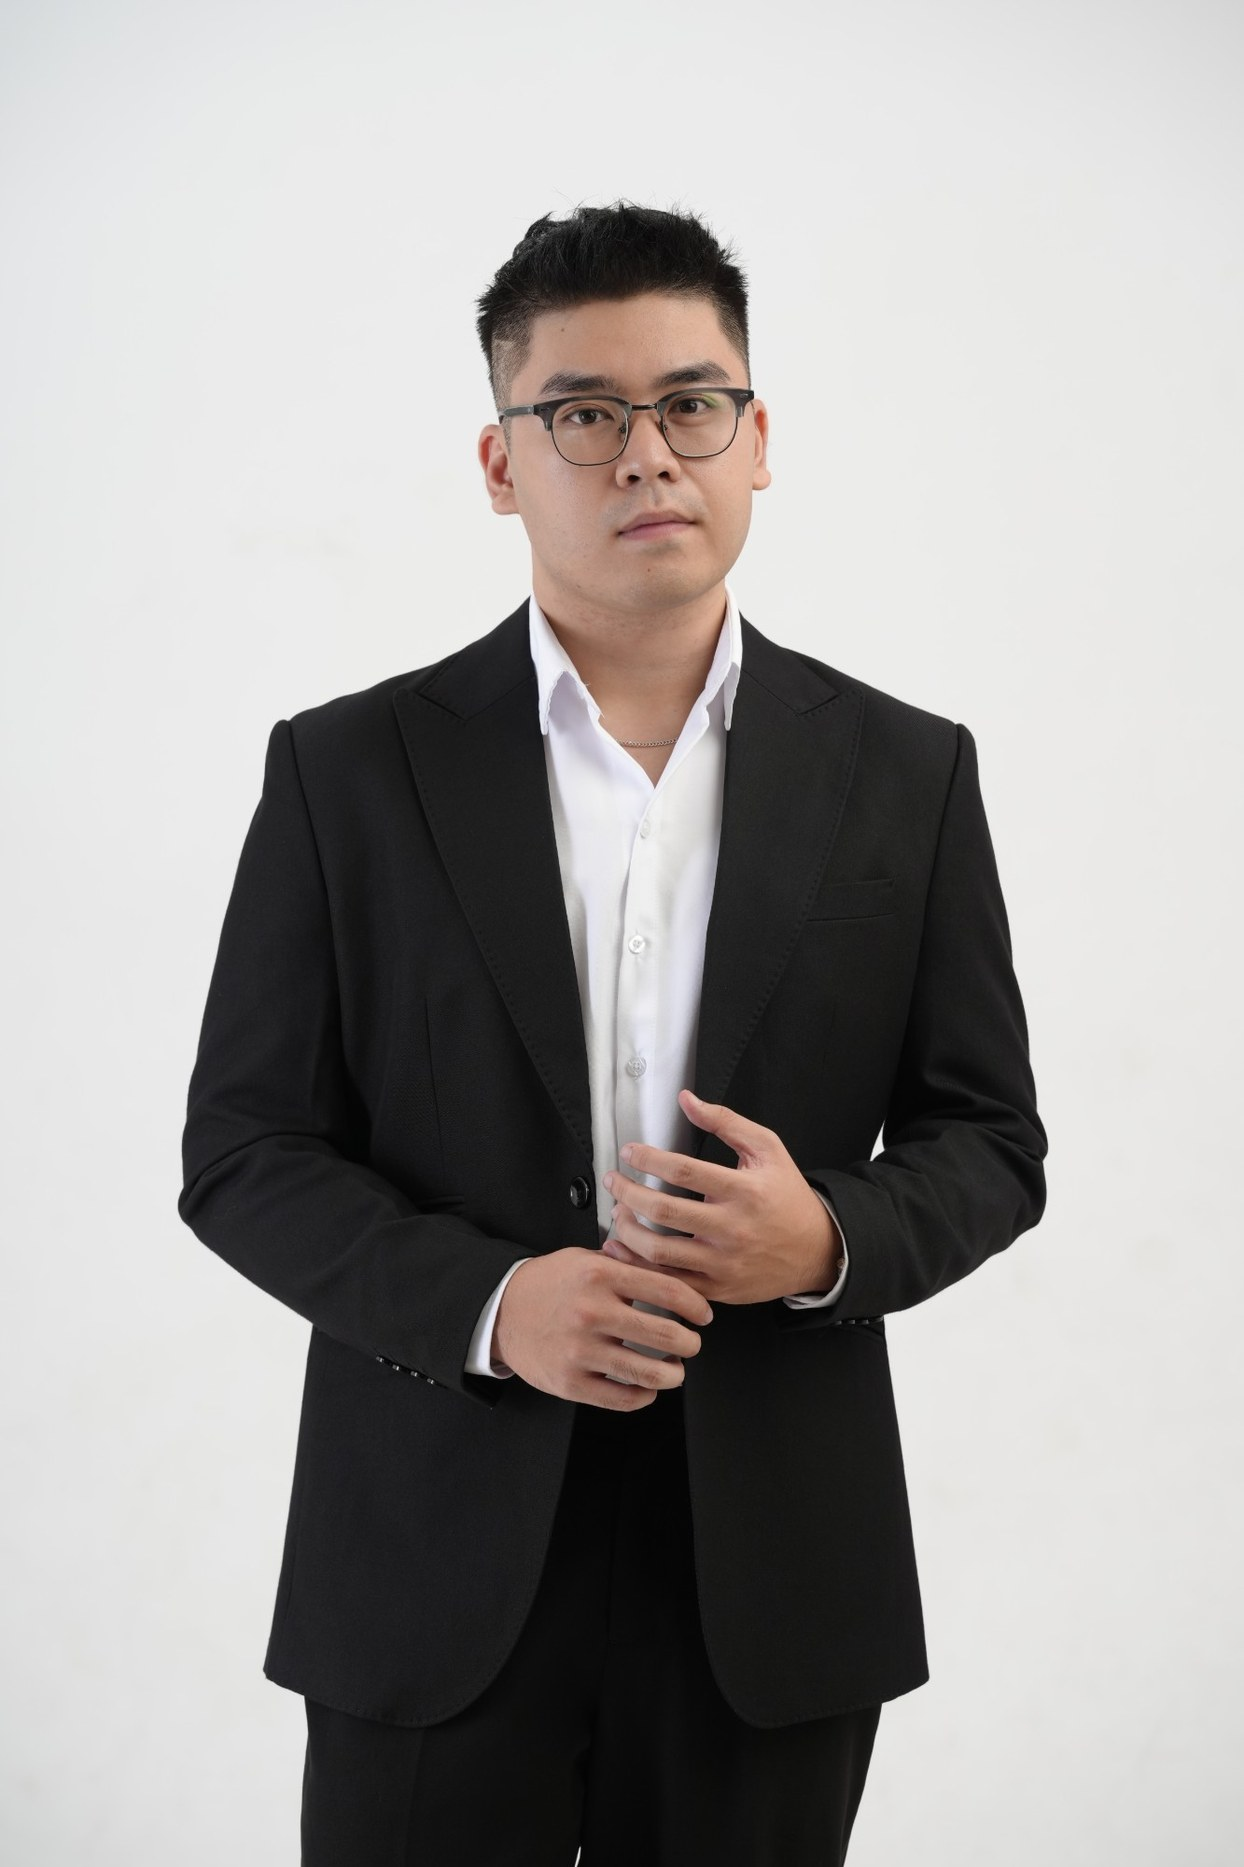
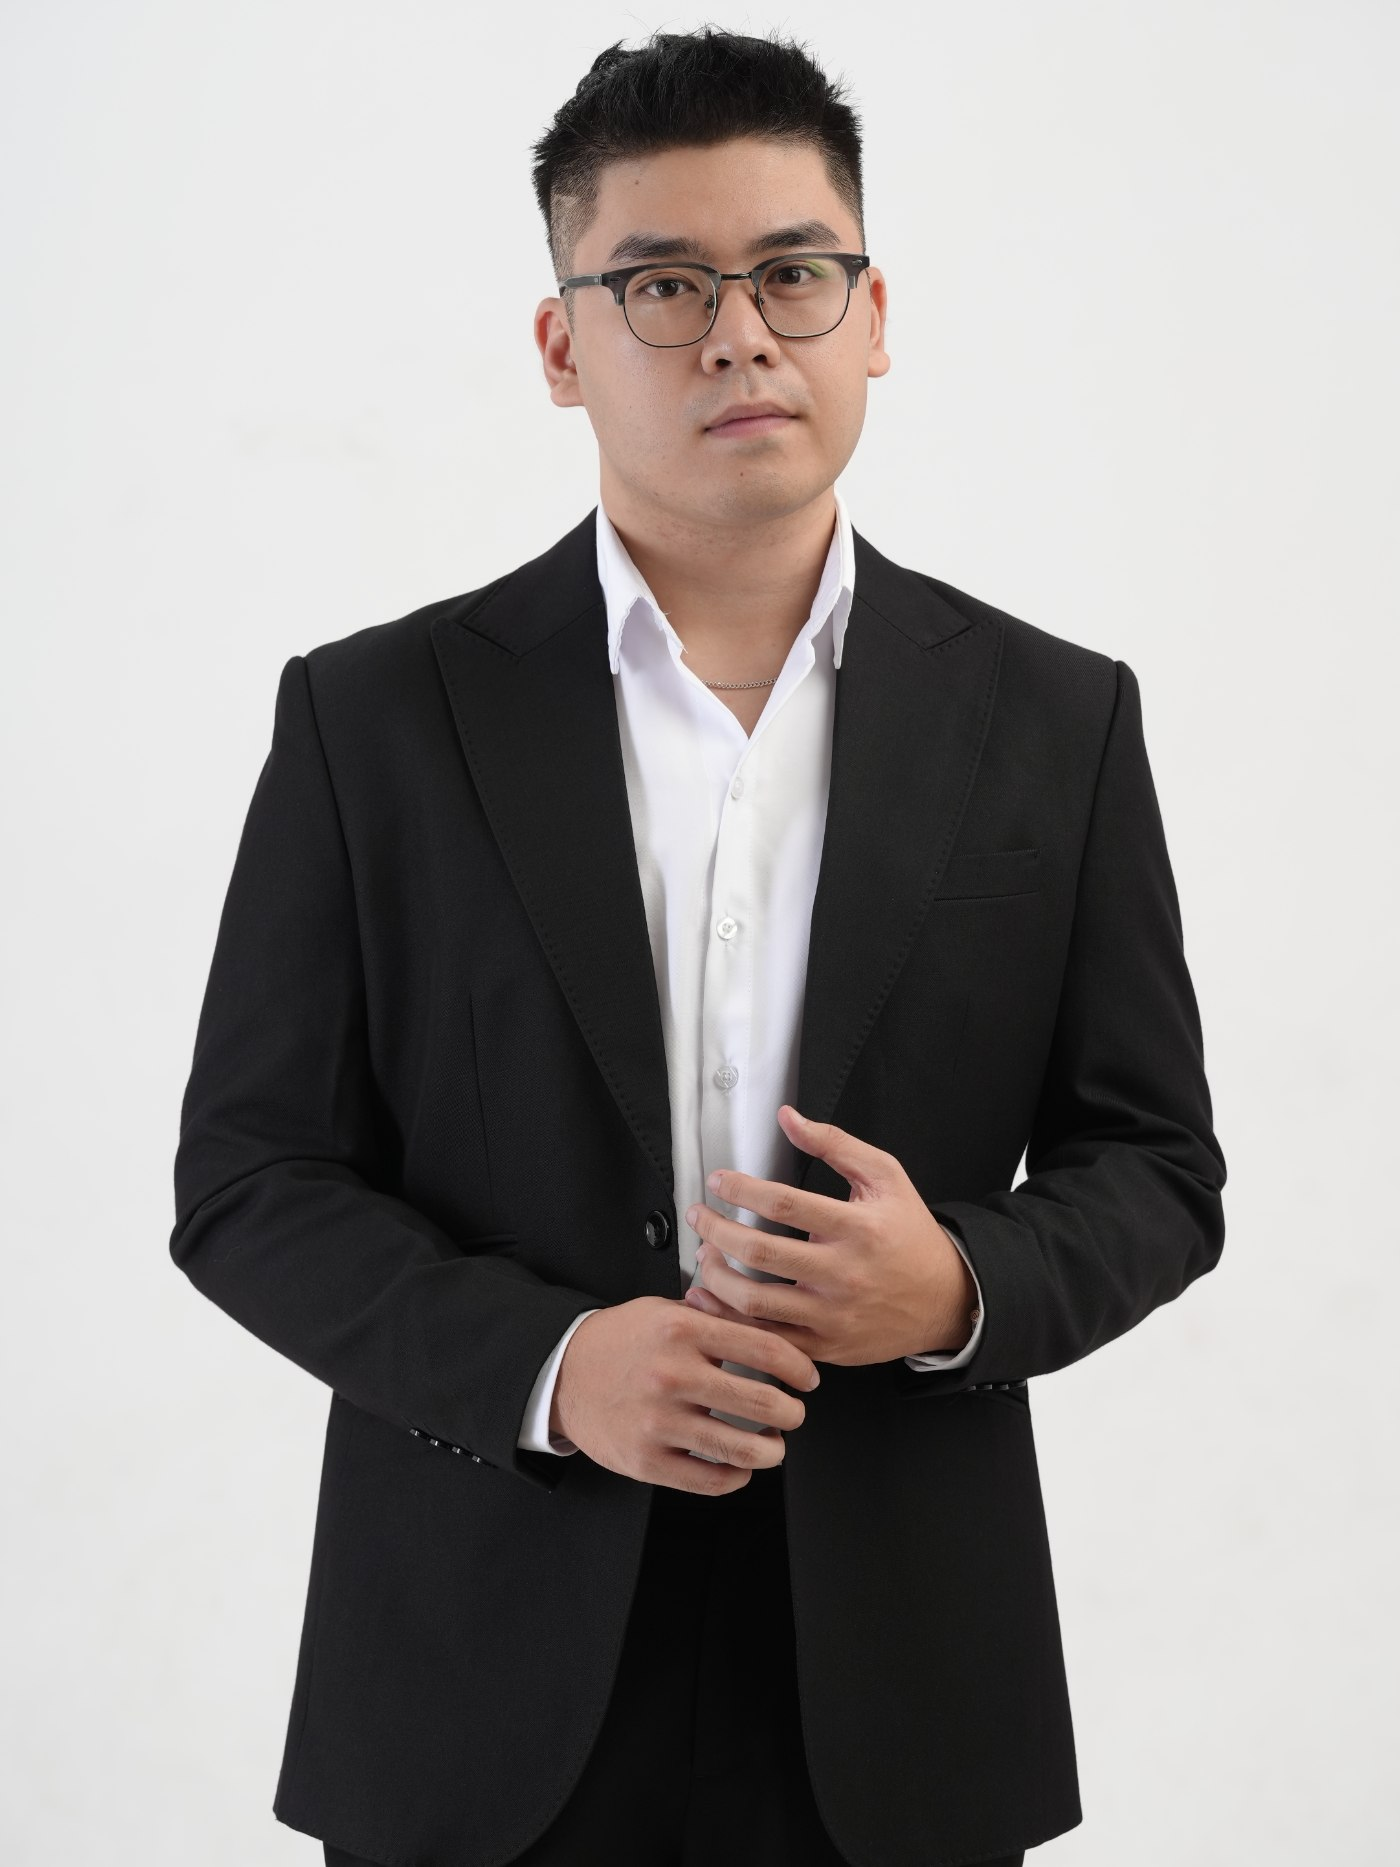
Add photo reordering (up/down) to grouped image slots in the admin panel
- New "Len truoc" / "Xuong sau" buttons on Hero slider photos (3), About photos (2), and each project's gallery cluster (2) — lets the user control which photo shows first/second/third without re-uploading
- Reordering swaps the actual files on disk (not just the JSON array values) so each slot's fixed per-position filename always matches what's really there — otherwise a later single-slot re-upload would silently overwrite a sibling's file. Verified with a standalone unit test covering both-filled, one-empty, both-empty, and sibling-untouched cases
- Sync latest admin-uploaded hero photo re-crops
- Bump cache versions

diff --git a/bold/js/admin.js b/bold/js/admin.js
@@ -146,6 +146,34 @@
     await w.close();
   }
 
+  async function readImageBlob(filename) {
+    try {
+      var fh = await imagesDirHandle.getFileHandle(filename);
+      return await fh.getFile();
+    } catch (e) {
+      return null;
+    }
+  }
+
+  async function deleteImageFile(filename) {
+    try { await imagesDirHandle.removeEntry(filename); } catch (e) { /* already gone */ }
+  }
+
+  // Swap two slots' displayed photo by swapping the underlying files on disk, so each
+  // slot's fixed filename (used on every future upload) always matches what's actually
+  // showing there — otherwise a later re-upload to one slot would silently overwrite
+  // the file a sibling slot still references.
+  async function swapSlotFiles(slotA, slotB) {
+    var aHad = !!slotA.get();
+    var bHad = !!slotB.get();
+    var aBlob = aHad ? await readImageBlob(slotA.filename) : null;
+    var bBlob = bHad ? await readImageBlob(slotB.filename) : null;
+    if (bBlob) { await writeImageBlob(slotA.filename, bBlob); } else { await deleteImageFile(slotA.filename); }
+    if (aBlob) { await writeImageBlob(slotB.filename, aBlob); } else { await deleteImageFile(slotB.filename); }
+    slotA.set(bHad ? ("../assets/images/" + slotA.filename) : "");
+    slotB.set(aHad ? ("../assets/images/" + slotB.filename) : "");
+  }
+
   async function bumpCacheVersion() {
     try {
       var fh = await boldDirHandle.getFileHandle("index.html");
@@ -204,21 +232,29 @@
   function buildPersonalSlots() {
     var slots = [];
     if (!DATA.personal.heroPhotos || !DATA.personal.heroPhotos.length) DATA.personal.heroPhotos = ["", "", ""];
+    var heroSlots = [];
     DATA.personal.heroPhotos.forEach(function (_, i) {
-      slots.push({
+      var s = {
         id: "hero-" + i, label: "Ảnh Hero (trang chủ) #" + (i + 1) + " — slider tự chuyển", hint: "dọc 3:4 · ≥1400×1867px",
         aspect: [3, 4], targetPx: [1400, 1867], filename: "hero-portrait-" + (i + 1) + ".jpg",
         get: function () { return DATA.personal.heroPhotos[i]; },
         set: function (v) { DATA.personal.heroPhotos[i] = v; }
-      });
+      };
+      s.reorder = { group: heroSlots, index: i };
+      heroSlots.push(s);
+      slots.push(s);
     });
+    var aboutSlots = [];
     DATA.personal.aboutPhotos.forEach(function (_, i) {
-      slots.push({
+      var s = {
         id: "about-" + i, label: "Ảnh Giới thiệu #" + (i + 1), hint: "dọc 3:4 · ≥1200×1600px",
         aspect: [3, 4], targetPx: [1200, 1600], filename: "about-" + (i + 1) + ".jpg",
         get: function () { return DATA.personal.aboutPhotos[i]; },
         set: function (v) { DATA.personal.aboutPhotos[i] = v; }
-      });
+      };
+      s.reorder = { group: aboutSlots, index: i };
+      aboutSlots.push(s);
+      slots.push(s);
     });
     slots.push({
       id: "ownership-rail", label: "Ảnh Rail — Định vị", hint: "dọc 4:5 · ≥960×1200px",
@@ -261,14 +297,18 @@
         set: function (v) { p.cover = v; }
       });
       if (!p.gallery || !p.gallery.length) p.gallery = ["", ""];
+      var gallerySlots = [];
       p.gallery.forEach(function (_, gi) {
-        slots.push({
+        var s = {
           id: "gallery-" + p.id + "-" + gi, label: "Ảnh cụm nhỏ #" + (gi + 1) + ": " + p.client,
           hint: "ngang 4:3 · ≥1000×750px",
           aspect: [4, 3], targetPx: [700, 525], filename: "gallery-" + p.id + "-" + gi + ".jpg",
           get: function () { return p.gallery[gi] || ""; },
           set: function (v) { p.gallery[gi] = v; }
-        });
+        };
+        s.reorder = { group: gallerySlots, index: gi };
+        gallerySlots.push(s);
+        slots.push(s);
       });
     });
     return slots;
@@ -385,6 +425,33 @@
           renderSlotGrid(container, slots);
         });
         actions.appendChild(btnRemove);
+      }
+
+      if (slot.reorder) {
+        var rGroup = slot.reorder.group;
+        var rIdx = slot.reorder.index;
+        if (rIdx > 0) {
+          var btnUp = document.createElement("button");
+          btnUp.textContent = "↑ Lên trước";
+          btnUp.title = "Đổi chỗ với ảnh trước";
+          btnUp.addEventListener("click", async function () {
+            await swapSlotFiles(rGroup[rIdx - 1], rGroup[rIdx]);
+            await persist();
+            renderAll();
+          });
+          actions.appendChild(btnUp);
+        }
+        if (rIdx < rGroup.length - 1) {
+          var btnDown = document.createElement("button");
+          btnDown.textContent = "↓ Xuống sau";
+          btnDown.title = "Đổi chỗ với ảnh sau";
+          btnDown.addEventListener("click", async function () {
+            await swapSlotFiles(rGroup[rIdx], rGroup[rIdx + 1]);
+            await persist();
+            renderAll();
+          });
+          actions.appendChild(btnDown);
+        }
       }
 
       body.appendChild(label);

diff --git a/bold/index.html b/bold/index.html
@@ -18,7 +18,7 @@
 <link rel="preconnect" href="https://fonts.gstatic.com" crossorigin>
 <link href="https://fonts.googleapis.com/css2?family=Archivo:wght@700;800;900&family=Inter:wght@400;500;600;700&family=Caveat:wght@600;700&display=swap" rel="stylesheet">
 
-<link rel="stylesheet" href="css/style.css?v=104">
+<link rel="stylesheet" href="css/style.css?v=112">
 </head>
 <body>
 <a class="skip-link" href="#main">Bỏ qua tới nội dung chính / Skip to content</a>
@@ -198,10 +198,10 @@
   </div>
 </footer>
 
-<script src="../data/content.js?v=104"></script>
+<script src="../data/content.js?v=112"></script>
 <script src="https://cdnjs.cloudflare.com/ajax/libs/gsap/3.12.5/gsap.min.js"></script>
 <script src="https://cdnjs.cloudflare.com/ajax/libs/gsap/3.12.5/ScrollTrigger.min.js"></script>
 <script src="https://unpkg.com/lenis@1.1.18/dist/lenis.min.js"></script>
-<script src="js/main.js?v=104"></script>
+<script src="js/main.js?v=112"></script>
 </body>
 </html>

diff --git a/bold/admin.html b/bold/admin.html
@@ -9,8 +9,8 @@
 <link rel="preconnect" href="https://fonts.googleapis.com">
 <link rel="preconnect" href="https://fonts.gstatic.com" crossorigin>
 <link href="https://fonts.googleapis.com/css2?family=Archivo:wght@700;800;900&family=Inter:wght@400;500;600;700&display=swap" rel="stylesheet">
-<link rel="stylesheet" href="css/style.css?v=84">
-<link rel="stylesheet" href="css/admin.css?v=12">
+<link rel="stylesheet" href="css/style.css?v=85">
+<link rel="stylesheet" href="css/admin.css?v=13">
 </head>
 <body class="admin-body">
 
@@ -123,6 +123,6 @@
 
 <input type="file" id="fileInput" accept="image/*" hidden>
 
-<script src="js/admin.js?v=12"></script>
+<script src="js/admin.js?v=13"></script>
 </body>
 </html>
